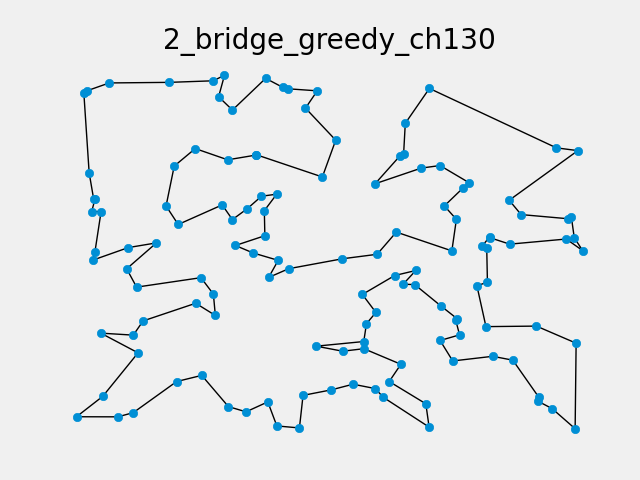
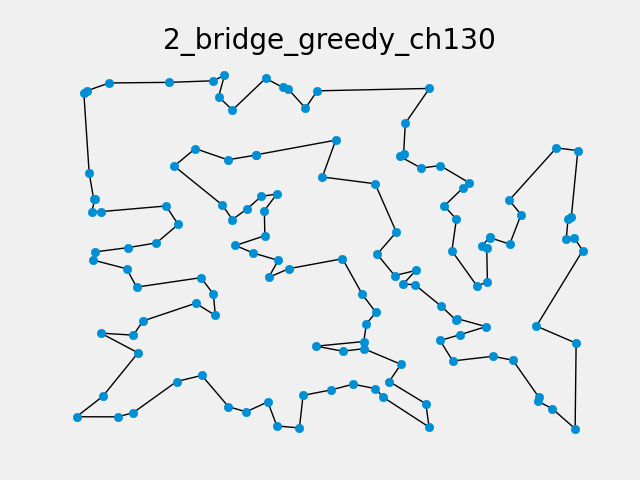
tabu search

diff --git a/src/tsp.py b/src/tsp.py
@@ -6,7 +6,8 @@
 # Roberto Gamboa, 16-10394
 
 import time
-from utils.generate_timelapse import generate_timelapse
+import pandas as pd
+# from utils.generate_timelapse import generate_timelapse
 from utils.file_names import FILE_NAMES, LABEL_NAMES
 from utils.graficar import graficar_ciudades, graficar_recorrido
 from utils.display_table import display_table
@@ -20,12 +21,10 @@ from heuristic.nearest_neighbour import (
 )
 from heuristic.two_opt import two_opt_local_search
 from heuristic.double_bridge import iterative_local_search
+from meta_heuristic.tabu_search import tabu_search
 
 
 def run_algorithm(name, current_city, save_graph, show_on_screen, algorithm_func, *args):
-
-    cols.append(name)
-
     start_time = time.time()
     result = algorithm_func(*args, current_city)
     end_time = time.time()
@@ -37,20 +36,20 @@ def run_algorithm(name, current_city, save_graph, show_on_screen, algorithm_func
     print(f"Distancia total: {round(distance, 2)}")
     print(f"Tiempo de ejecución: {execution_time} segundos")
 
-    data.append([round(distance, 2), execution_time, ""])
-
     if save_graph:
         graficar_recorrido(
             tour, nodes, "", f"{FILE_NAMES[name]}{current_city}", show_on_screen
         )
     
-    return result
+    return round(distance, 2), execution_time
 
 
 if __name__ == "__main__":
 
     # cities = [ "berlin52", "ch130", "tsp225", "pcb442", "pr1002"]
-    cities = ["berlin52"]
+    cities = ["berlin52", "ch130", "tsp225"]
+    all_data = []
+    # cities = ["ch130"]
     # cities = []
     
     for currentCity in cities:
@@ -81,50 +80,47 @@ if __name__ == "__main__":
         show_each_iteration = False
 
         # RANDOM
-        distance_random, tour_random = run_algorithm(
-            "random_tour",
-            currentCity,
-            save_graph,
-            show_on_screen,
-            random_tour,
-            distance_matrix,
-            nodes,
-            show_each_iteration
-        )
-        
-        # NEAREST NEIGHBOUR
-        distance_NN, tour_NN = run_algorithm(
-            "nn",
-            currentCity,
-            save_graph,
-            show_on_screen,
-            nearest_neighbour,
-            distance_matrix,
-            nodes,
-            show_each_iteration
-        )
+        #distance_random, tour_random = run_algorithm(
+        #    "random_tour",
+        #    currentCity,
+        #    save_graph,
+        #    show_on_screen,
+        #    random_tour,
+        #    distance_matrix,
+        #    nodes,
+        #    show_each_iteration
+        #)
+        #
+        ## NEAREST NEIGHBOUR
+        #distance_NN, tour_NN = run_algorithm(
+        #    "nn",
+        #    currentCity,
+        #    save_graph,
+        #    show_on_screen,
+        #    nearest_neighbour,
+        #    distance_matrix,
+        #    nodes,
+        #    show_each_iteration
+        #)
   
-        # GREEDY
-        distance_greedy, tour_greedy = run_algorithm(
-            "greedy",
-            currentCity,
-            save_graph,
-            show_on_screen,
-            greedy_insertion,
-            distance_matrix,
-            nodes,
-            show_each_iteration,
-        )
+        ## GREEDY
+        #distance_greedy, tour_greedy = run_algorithm(
+        #    "greedy",
+        #    currentCity,
+        #    save_graph,
+        #    show_on_screen,
+        #    greedy_insertion,
+        #    distance_matrix,
+        #    nodes,
+        #    show_each_iteration,
+        #)
 
-        display_table(cols, data, currentCity, "table_initial")
+        #display_table(cols, data, currentCity, "table_initial")
 
         ########################## LOCAL SEARCH ##########################
-        cols = ["best_tour"]
-        data = []
-        data.append([round(best_distance_tour, 2), "N/A", ""])
-
+        print("\nLocal Search")
         # RANDOM
-        distance_random, tour_random = run_algorithm(
+        distance_random, time_random = run_algorithm(
             "two_opt_random",
             currentCity,
             save_graph,
@@ -135,9 +131,11 @@ if __name__ == "__main__":
             random_tour,
             show_each_iteration
         )
-            
+        # print(f"distancia total: {distance_random}")
+        data.append([round(distance_random, 2), time_random, "two_opt_random"])
+
         # NEAREST NEIGHBOUR
-        distance_two_opt_nn, tour_two_opt_nn = run_algorithm(
+        distance_two_opt_nn, time_two_opt_nn = run_algorithm(
             "two_opt_nn",
             currentCity,
             save_graph,
@@ -148,9 +146,11 @@ if __name__ == "__main__":
             nearest_neighbour,
             show_each_iteration
         )
+        # print(f"distancia total: {distance_two_opt_nn}")
+        data.append([round(distance_two_opt_nn, 2), time_two_opt_nn, "two_opt_nn"])
 
         # GREEDY
-        distance_two_opt_greedy, tour_two_opt_greedy = run_algorithm(
+        distance_two_opt_greedy, time_two_opt_greedy = run_algorithm(
             "two_opt_greedy",
             currentCity,
             save_graph,
@@ -161,17 +161,16 @@ if __name__ == "__main__":
             greedy_insertion,
             show_each_iteration
         )
+        # print(f"distancia total: {distance_two_opt_greedy}")
+        data.append([round(distance_two_opt_greedy, 2), time_two_opt_greedy, "two_opt_greedy"])
 
-        display_table(cols, data, currentCity, "table_local_search")
+        # display_table(cols, data, currentCity, "table_local_search")
         
 
         ########################## ITERATED LOCAL SEARCH ##########################
-        cols = ["best_tour"]
-        data = []
-        data.append([round(best_distance_tour, 2), "N/A", ""])
-
+        print("\nIterated Local Search")
         # RANDOM
-        distance_double_bridge_random, tour_double_bridge_random = run_algorithm(
+        distance_double_bridge_random, time_double_bridge_random = run_algorithm(
             "double_bridge_random",
             currentCity,
             save_graph,
@@ -182,9 +181,11 @@ if __name__ == "__main__":
             random_tour,
             show_each_iteration
         )
+        #print(f"distancia total: {distance_double_bridge_random}")
+        data.append([round(distance_double_bridge_random, 2), time_double_bridge_random, "double_bridge_random"])
         
         # NEAREST NEIGHBOUR
-        distance_double_bridge_nn, double_bridge_opt_nn = run_algorithm(
+        distance_double_bridge_nn, time_double_bridge_nn = run_algorithm(
             "double_bridge_nn",
             currentCity,
             save_graph,
@@ -195,9 +196,11 @@ if __name__ == "__main__":
             nearest_neighbour,
             show_each_iteration
         )
+        # print(f"distancia total: {distance_double_bridge_nn}")
+        data.append([round(distance_double_bridge_nn, 2), time_double_bridge_nn, "double_bridge_nn"])
 
         # GREEDY
-        distance_double_bridge_greedy, tour_double_bridge_greedy = run_algorithm(
+        distance_double_bridge_greedy, time_double_bridge_greedy = run_algorithm(
             "double_bridge_greedy",
             currentCity,
             save_graph,
@@ -208,8 +211,52 @@ if __name__ == "__main__":
             greedy_insertion,
             show_each_iteration
         )
+        # print(f"distancia total: {distance_double_bridge_greedy}")
+        data.append([round(distance_double_bridge_greedy, 2), time_double_bridge_greedy, "double_bridge_greedy"])
 
-        display_table(cols, data, currentCity, "table_iterated_local_search")
+        # display_table(cols, data, currentCity, "table_iterated_local_search")
+
+        
+        ########################## TABU SEARCH ##########################
+        # RANDOM
+        print("\nRANDOM")
+        start_time = time.time()
+        distance_tabu_search_random, tour_tabu_search_random = tabu_search(distance_matrix, nodes, random_tour)
+        end_time = time.time()
+        print(f"distancia total: {distance_tabu_search_random}")
+
+        execution_time = round(end_time - start_time, 5)
+        
+        data.append([round(distance_tabu_search_random, 2), execution_time, "tabu_search_random"])
+
+        # NEAREST NEIGHBOUR
+        print("\nNEAREST NEIGHBOUR")
+        start_time = time.time()
+        distance_tabu_search_nn, tour_tabu_search_nn = tabu_search(distance_matrix, nodes, nearest_neighbour)
+        end_time = time.time()
+        print(f"distancia total: {distance_tabu_search_nn}")
+
+        execution_time = round(end_time - start_time, 5)
+
+        data.append([round(distance_tabu_search_nn, 2), execution_time, "tabu_search_nn"])
+
+        # GREEDY
+        print("\nGREEDY")
+        start_time = time.time()
+        distance_tabu_search_greedy, tour_tabu_search_greedy = tabu_search(distance_matrix, nodes, greedy_insertion)
+        end_time = time.time()
+        print(f"distancia total: {distance_tabu_search_greedy}")
+
+        execution_time = round(end_time - start_time, 5)
+
+        data.append([round(distance_tabu_search_greedy, 2), execution_time, "tabu_search_greedy"])
+
+        all_data.extend([[currentCity] + row for row in data])
+
+    df = pd.DataFrame(all_data, columns=["Instancia", "Distancia", "Tiempo", "Algoritmo"])
+    df.to_csv("results.csv", index=False)
+
+    print("Resultados guardados en results.csv")
 
         ########################## TIMELAPSE ##########################
         # generate_timelapse(f"random/{currentCity}", f"{currentCity}/{currentCity}_random_tour")

diff --git a/src/meta_heuristic/tabu_search.py b/src/meta_heuristic/tabu_search.py
@@ -1,0 +1,94 @@
+import random
+import math
+from collections import deque
+from heuristic.nearest_neighbour import nearest_neighbour
+from heuristic.double_bridge import calculate_total_distance
+
+def two_opt_swap(tour, i, j):
+    new_tour = tour[:i] + tour[i:j+1][::-1] + tour[j+1:]
+    return new_tour
+
+def tabu_search(distance_matrix, city, algorithm_func, max_iterations=1000):
+    """
+    Busqueda tabú para resolver el problema del agente viajero.
+
+    Parámetros:
+    -----------
+
+    distance_matrix ([[int/float]]): Matriz de distancias entre los nodos del
+    problema (distance_matrix[i][j] representa la distancia del nodo i al nodo j).
+    city (list): Lista de nombres o identificadores de las ciudades o nodos.
+    algorithm_func (function): Función de heurística que genera una ruta inicial
+    (por ejemplo, nearest_neighbour).
+    max_iterations (int, opcional): Número máximo de iteraciones para detener
+    el algoritmo. Por defecto es 1000.
+
+    Return:
+    ------
+
+    tuple: Una tupla que contiene:
+           - best_distance (int/float): La distancia total de la mejor ruta
+           encontrada.
+           - best_tour (list): La mejor ruta (lista de nodos) encontrada.
+    """
+
+    n = len(distance_matrix)
+
+    # Calcula el tamaño de la lista tabú
+    tabu_tenure = int(math.sqrt(n))
+
+    # Inicializa la lista tabú
+    tabu_list = deque(maxlen=tabu_tenure)
+    
+    # Calcula la solución inicial x y su distancia
+    best_distance, best_tour = algorithm_func(distance_matrix, city)
+    
+    # Inicializa la solución actual y su distancia
+    current_tour = best_tour
+    current_distance = best_distance
+
+    patience = 50                 # paciencia
+    improvement_threshold = 0.01 # umbral de mejora
+    no_improvement_iters = 0     # iteraciones sin mejora
+    iteration = 0                # iteraciones
+
+    while iteration < max_iterations:
+        neighborhood = []
+        
+        for i in range(1, n-1):
+            for j in range(i+1, n):
+                if (i, j) not in tabu_list and (j, i) not in tabu_list:
+                    new_tour = two_opt_swap(current_tour, i, j)
+                    new_distance = calculate_total_distance(new_tour, distance_matrix)
+                    neighborhood.append((new_tour, new_distance, (i, j)))
+
+        # Ordena los movimientos en el vecindario por distancia
+        neighborhood.sort(key=lambda x: x[1])
+
+        # Obtiene el mejor movimiento en el vecindario
+        best_candidate = neighborhood[0]
+        
+        new_tour, new_distance, move = best_candidate
+
+        # Verifica el criterio de aspiración
+        if move not in tabu_list or new_distance < best_distance:
+            current_tour = new_tour
+            current_distance = new_distance
+
+            # Verifica si el movimiento es mejor que la mejor solución global
+            if new_distance < best_distance:
+                best_tour = new_tour
+                best_distance = new_distance
+            else:
+                no_improvement_iters += 1
+
+            tabu_list.append(move)
+        else:
+            no_improvement_iters += 1
+        iteration += 1
+        
+        # Verifica si se ha alcanzado el número máximo de iteraciones sin mejora
+        if no_improvement_iters >= patience and (best_distance - current_distance) / best_distance < improvement_threshold:
+            break
+
+    return best_distance, best_tour
